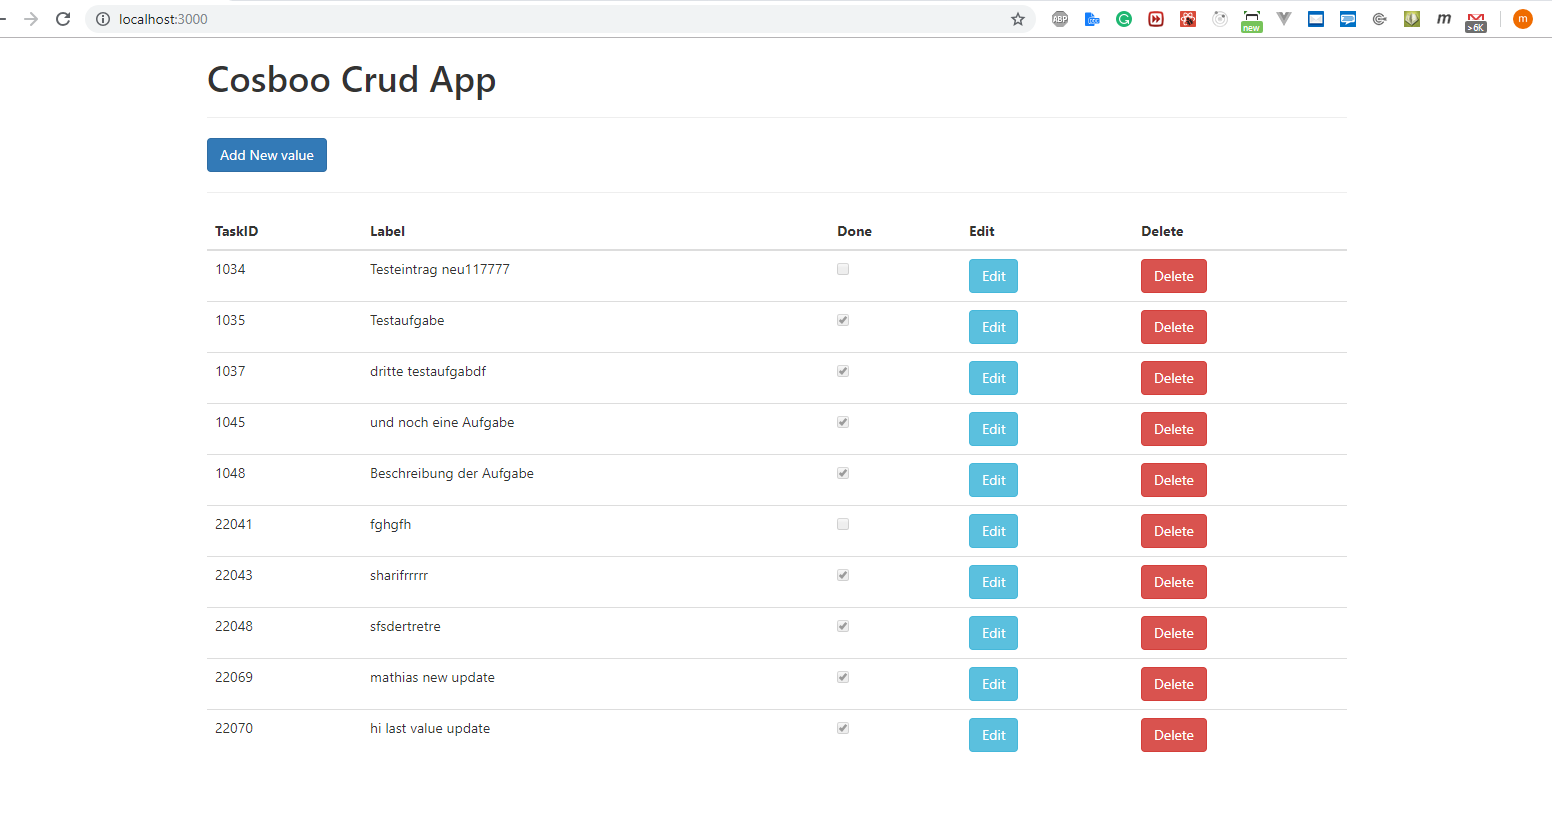
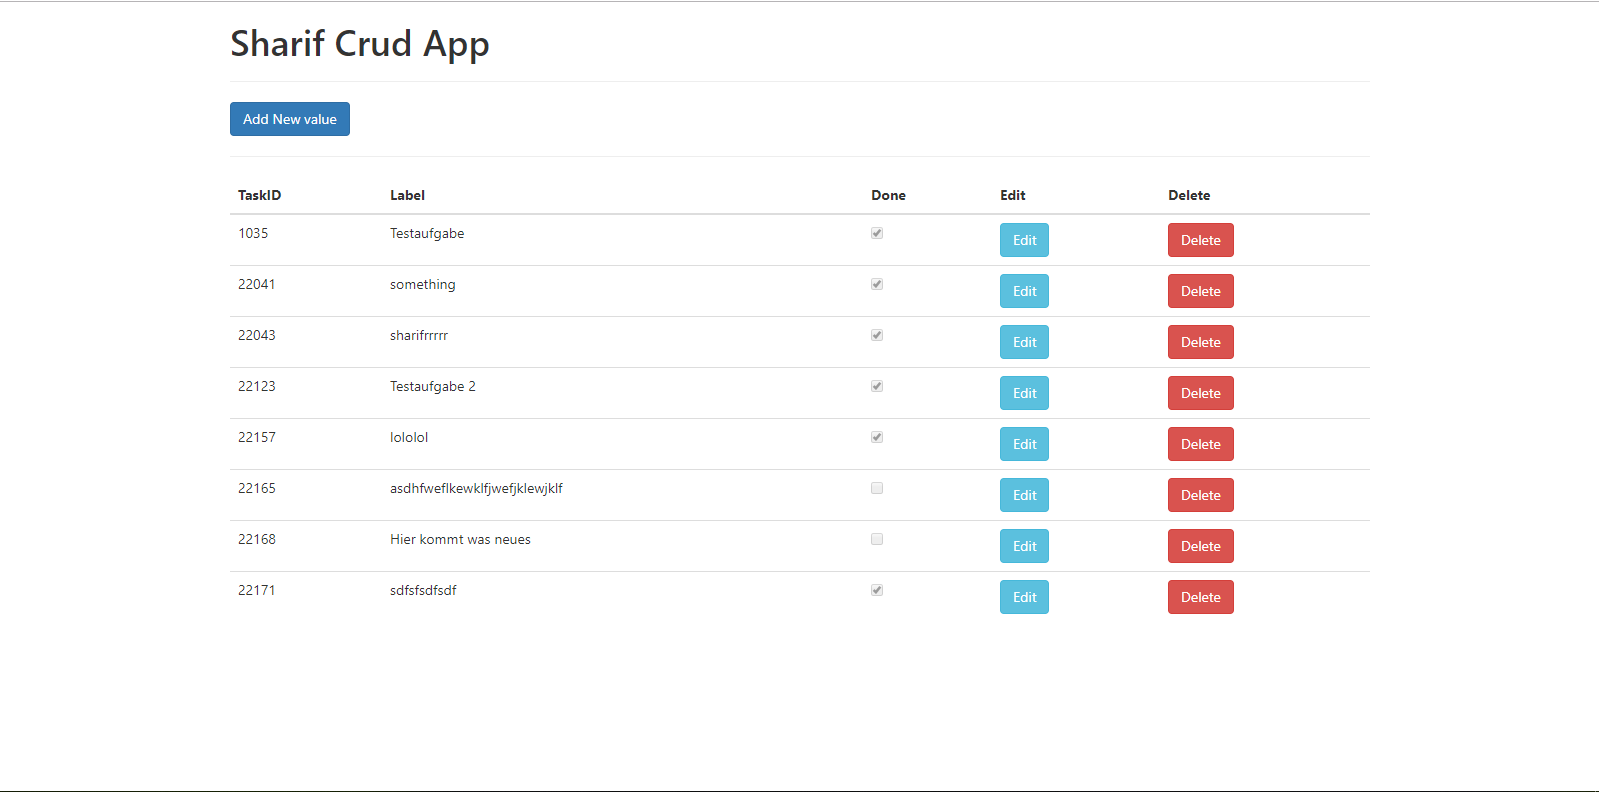
updated

diff --git a/src/App.js b/src/App.js
@@ -13,8 +13,8 @@ class App extends Component {
        data:[]
     }
 
-    this.deleteById = this.deleteById.bind(this); 
-    this.getData = this.getData.bind(this); 
+    this.deleteById = this.deleteById.bind(this);
+    this.getData = this.getData.bind(this);
   }
   getData(){
     axios.get('https://fe-dev-argo.cosboo.com/api/dataEntries/query?type=Task', { headers: {'X-Requested-With': 'XMLHttpRequest'} })
@@ -35,7 +35,7 @@ class App extends Component {
   render() {
     return (
       <div className="container">
-        <h1>Cosboo Crud App</h1>
+        <h1>Sharif Crud App</h1>
          <hr/>
          <Route exact path="/" render={(props)=> (
             <Home {...this.state} {...props} deleteById={this.deleteById} />
